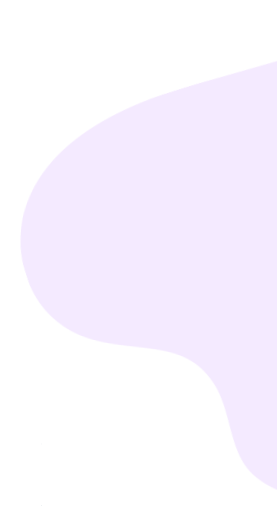
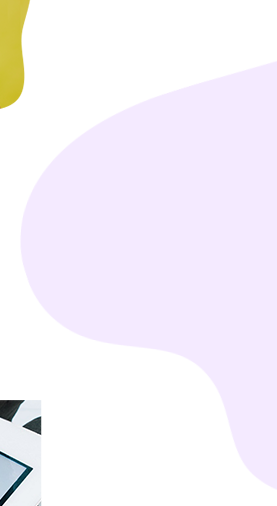
Complete Static Website

diff --git a/index.html b/index.html
@@ -9,20 +9,20 @@
     <script src="https://cdn.tailwindcss.com"></script>
     <link rel="stylesheet" href="style.css">
 </head>
-<body class="h-fit w-fit flex flex-col items-center">
+<body class="h-fit w-screen flex flex-col items-center">
 
     <!-- Home page -->
-    <div id="homePage" class=" w-fit min-h-fit h-screen mb-8">
+    <div id="homePage" class="relative w-fit min-h-fit h-screen mb-8 ">
 
         
-        <div class="flex justify-between w-screen min-w-fit h-24 px-[8%] z-10">
+        <div class="flex justify-between w-screen min-w-fit h-24 px-[8%] z-10 ">
             <div class="text-7xl  w-80 "><img src="assets/logo-1 1.png" alt="Logo" srcset=""></div>
             <div class="flex  w-68 justify-between items-center ">
                 <a href="#aboutUs" class="flex-initial w-28 hover:text-cyan-500">About Us</a>
                 <a href="#services" class="flex-initial w-28 hover:text-cyan-500">Services</a>
-                <a href="#" class="flex-initial w-28 hover:text-cyan-500">Team</a>
-                <a href="#" class="flex-initial w-28 hover:text-cyan-500">Clients</a>
-                <a href="#" class="flex-initial w-28 hover:text-cyan-500">Contact Us</a>
+                <a href="#ourTeam" class="flex-initial w-28 hover:text-cyan-500">Team</a>
+                <a href="#ourClients" class="flex-initial w-28 hover:text-cyan-500">Clients</a>
+                <a href="#contactUs" class="flex-initial w-28 hover:text-cyan-500">Contact Us</a>
             </div>
         </div>
         <img class="absolute top-0 left-0 -z-50" src="assets/Asset 1.png" alt="">
@@ -42,21 +42,21 @@
     </div>
 
     <!-- About Us -->
-    <div id="aboutUs" class="relative w-fit h-fit flex py-4">
-        <div class=" w-[43%] h-[475px] mt-[4%]">
+    <div id="aboutUs" class="relative w-fit h-fit flex py-4 px-12 ">
+        <div class=" w-[50%] h-[475px] mt-[4%] ">
             <img src="assets/about us 1.png" alt="">
         </div>
         
-        <div class=" w-[43%] h-[50%] mt-[4%] flex flex-col gap-4">
+        <div class=" w-[50%] h-[50%] mt-[4%] flex flex-col gap-4 ">
             <div>
-                <!-- content 1 -->
+
                 <div class="font-medium text-4xl leading-[56px]">ABOUT US</div>
                 <div class="font-normal text-lg leading-7 text-[#2C2C2C]">
                   We love what we do and are driven by achieving great results for our clients. Our awards and impressive client list are testament to our high-quality approach. We deliver value, creativity, results, and exceptional levels of customer service and professionalism. We specialize in infrastructure development, energy, and natural resources.
                 </div>
             </div>              
             <div class="flex gap-16">
-                <!-- content 2 -->
+
                 <div class="flex flex-col gap-4">
                     <div class="size-11 "><img src="assets/Enagagement icon 1.png" alt=""></div>
                     <div class="font-medium text-2xl leading-7">Engagemen</div>
@@ -71,7 +71,7 @@
         </div>
     </div>
 
-<!-- Services -->
+    <!-- Services -->
     <div id="services" class="relative  w-screen min-w-fit h-fit  py-4 flex flex-col items-center justify-between gap-8">
 
         <img class="absolute -top-16 left-0 -z-50" src="assets/Asset 5 2.png" alt="">
@@ -133,6 +133,102 @@
         
     </div>
 
+    <!-- Our Team -->
+    <div id="ourTeam" class="relative w-screen min-w-fit h-fit  py-4 flex flex-col items-center justify-between gap-8 mt-36 mb-28">
+
+        <img class="absolute -top-48 left-0 -z-50" src="assets/Asset 5 2.png" alt="">
+        <img class="absolute -bottom-80 right-0 -z-50" src="assets/Asset 8 2.png" alt="">
+
+        <div class="font-medium text-[48px] leading-[56.88px]">Our Team</div>
+        
+        <div class="flex items-center justify-between gap-36">
+
+            <div class="flex flex-col items-center gap-8">
+                <img class="" src="assets/Person 1 img 1.png" alt="">
+                <h3 class="font-normal text-xl leading-[28.44px]">Jessica D'suza</h3>
+            </div>
+            <div class="flex flex-col items-center gap-8">
+                <img class="" src="assets/Person 2 img 1.png" alt="">
+                <h3 class="font-normal text-xl leading-[28.44px]">Johny Williams</h3>
+            </div>
+            <div class="flex flex-col items-center gap-8">
+                <img class="" src="assets/Person 3 img 1.png" alt="">
+                <h3 class="font-normal text-xl leading-[28.44px]">Sanya R,</h3>
+            </div>
+
+        </div>
+    </div>
+
+    <!-- Our Projects  -->
+    <div id="ourProject" class="relative w-screen h-fit flex flex-col gap-8 items-center mb-28">
+
+        <div class="font-medium text-[48px] leading-[56px]">Our Projects</div>
+        <div class="flex gap-4">
+            <div><img src="assets/Our Project_ 1 img 1.png" alt=""></div>
+            <div class=" flex flex-col gap-4">
+                <div><img src="assets/Our Project _ 2 img 1.png" alt=""></div>
+                <div><img src="assets/Our Project_ 3 img 1.png" alt=""></div>
+            </div>
+        </div>
+
+    </div>
+
+    <!-- Our Clients -->
+    <div id="ourClients" class="relative flex flex-col items-center gap-16  w-screen">
+        <img class="absolute -top-36 left-0 -z-50" src="assets/Assets 9 1.png" alt="">
+
+        <div class="font-medium text-[48px] leading-[56px]">Our Clients</div>
+
+        <div class="flex items-center gap-12">
+
+            <div><img class="" src="assets/Layer 19.png" alt=""></div>
+            <div><img class="" src="assets/Layer 20.png" alt=""></div>
+            <div><img class="" src="assets/1280px-Brigitte-Logo-2.png" alt=""></div>
+            <div><img class="" src="assets/Layer 22.png" alt=""></div>
+            <div><img class="" src="assets/BHP_2017_logo.png" alt=""></div>
+        </div>
+        
+        <div class="flex items-center gap-12">
+            <div><img class="" src="assets/Layer 21.png" alt=""></div>
+            <div><img class="" src="assets/Layer 23.png" alt=""></div>
+            <div><img class="" src="assets/Layer 24.png" alt=""></div>
+            <div><img class="" src="assets/MelbourneWaterLogo-1024x282.png" alt=""></div>
+        </div>
+    </div>
+
+    <!-- Contact Us -->
+    <div id="contactUs" class="mt-20">
+        <div class="bg-[#BFDBFF] flex pt-8 justify-around gap-12 w-[1340px] h-[208px] text-sm leading-7">
+            <div class="flex flex-col">
+                <p class="text-base font-bold leading-9">Social</p>
+                <a href="" class="flex items-center relative hover:text-white">Facebook <img class="absolute -left-6 size-4 rounded-md" src="assets/facebook 1.png" alt=""> </a>
+                <a href="" class="flex items-center relative hover:text-white">Linkedin <img class="absolute -left-6 size-4 rounded-md" src="assets/linkedin 1.png" alt=""> </a>
+                <a href="" class="flex items-center relative hover:text-white">Google + <img class="absolute -left-6 size-4 rounded-md" src="assets/search 1.png" alt=""> </a>
+            </div>
+            <div class="flex flex-col ">
+                <p class="text-base font-bold leading-9 ">Explore</p>
+                <a href="" class="hover:text-white">Services</a>
+                <a href="" class="hover:text-white">Team</a>
+                <a href="" class="hover:text-white">Clients</a>
+            </div>
+            <div class="flex flex-col">
+                <p class="text-base font-bold leading-9">Contact</p>
+                <a href="" class="hover:text-white">Idk anyone will read</a>
+                <a href="" class="hover:text-white">this gibrish address</a>
+                <a href="" class="hover:text-white">1234567890</a>
+            </div>
+            <div class="flex flex-col">
+                <p class="text-base font-bold leading-9">Email</p>
+                <a href="" class="hover:text-white">assignment1@email.com</a>
+            </div>
+        </div>
+    </div>
+
+
+    <!-- Coppyrights  -->
+    <div class="h-12 w-screen flex items-center justify-center">
+        © Copyright 2018 Mendleson Communication Pty Ltd 
+    </div>
 
       <!-- Responsive Debug Box -->
     <div class="absolute bottom-4 right-4 p-2 rounded-md text-white font-semibold text-xs sm:text-sm md:text-base lg:text-lg">
